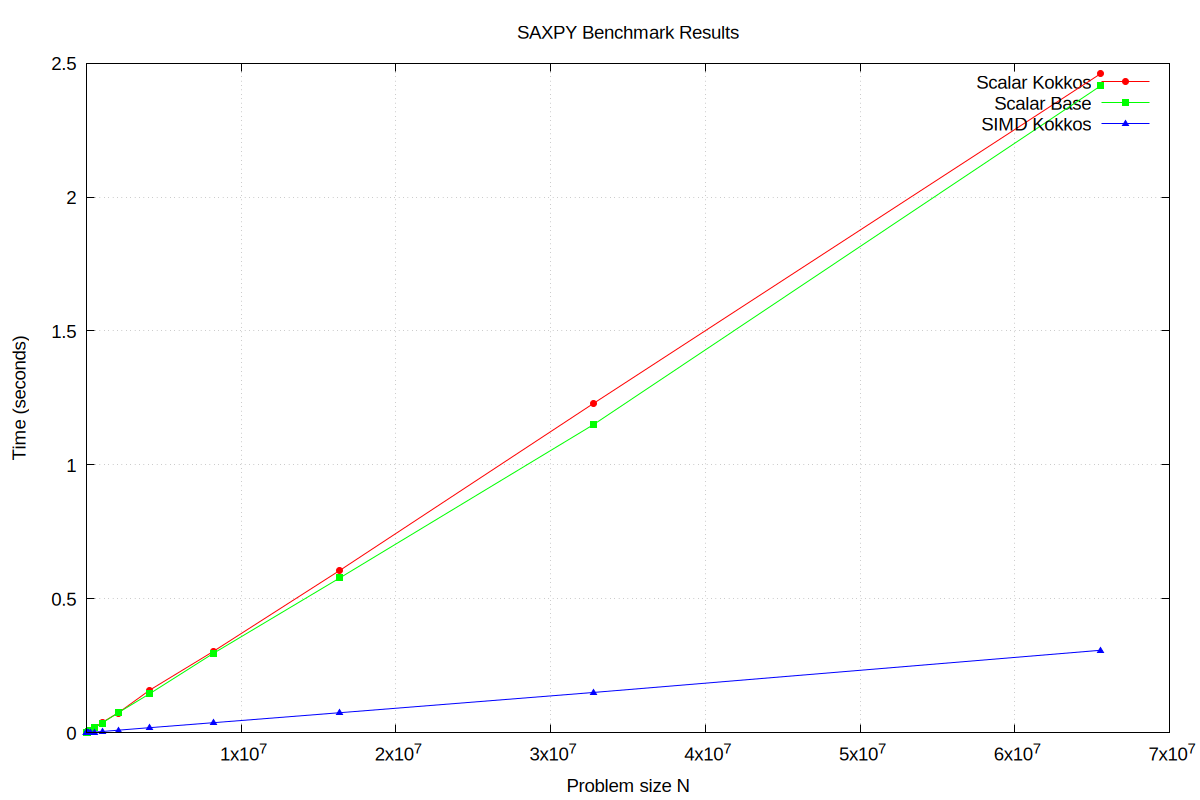
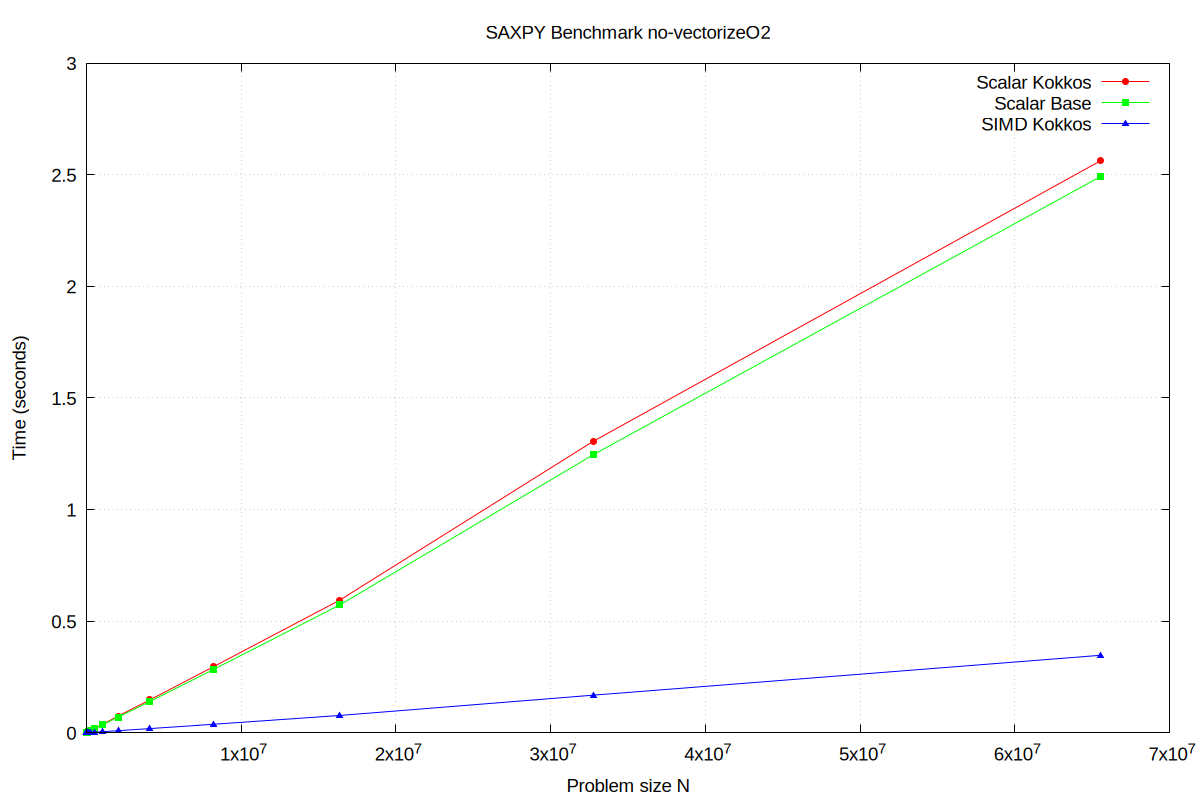
results included in readme

diff --git a/src/utils.cc b/src/utils.cc
@@ -1,23 +1,36 @@
 #include "utils.hh"
 #include "gnuplot.h"
 #include <string>
-void results_to_csv(const std::vector<Result> &results) {
-  // save results to csv file
-  // cols = |len|scalar_kokkos|-speedup->|scalar_base|-speedup->|//simd_kokkos|
 
+void results_to_csv(const std::vector<Result> &results) {
   std::string filename = std::string(BUILD_NAME) + "_results.csv";
   std::ofstream outFile(filename);
 
-  outFile << "N,scalar_kokkos,--->,scalar_base,--->,simd_kokkos\n";
+  outFile << "N,Vector Size (Bytes),Cache "
+             "Level,scalar_kokkos,--->,scalar_base,--->,simd_kokkos\n";
 
   for (const auto &res : results) {
+    size_t vector_size_bytes = res.n * sizeof(int);
+    std::string cache_level;
+
+    if (vector_size_bytes < 64 * 1024) { // L1: < 64 KB
+      cache_level = "L1";
+    } else if (vector_size_bytes < 2 * 1024 * 1024) { // L2: < 2 MB
+      cache_level = "L2";
+    } else if (vector_size_bytes < 12 * 1024 * 1024) { // L3: < 12 MB
+      cache_level = "L3";
+    } else { // RAM: >= 12 MB
+      cache_level = "RAM";
+    }
+
     double speedup_1 =
         std::round((res.times[0] / res.times[1]) * 1000.0) / 1000.0;
     double speedup_2 =
         std::round((res.times[1] / res.times[2]) * 1000.0) / 1000.0;
 
-    outFile << res.n << "," << res.times[0] << ",x" << speedup_1 << ","
-            << res.times[1] << ",x" << speedup_2 << "," << res.times[2] << "\n";
+    outFile << res.n << "," << vector_size_bytes << "," << cache_level << ","
+            << res.times[0] << ",x" << speedup_1 << "," << res.times[1] << ",x"
+            << speedup_2 << "," << res.times[2] << "\n";
   }
 
   outFile.close();
@@ -34,7 +47,7 @@ void plot_results(const std::vector<Result> &results) {
 
   gp.sendLine("set xlabel 'Problem size N'");
   gp.sendLine("set ylabel 'Time (seconds)'");
-  gp.sendLine("set title 'SAXPY Benchmark Results");
+  gp.sendLine("set title 'SAXPY Benchmark " + std::string(BUILD_NAME) + "'");
   gp.sendLine("set grid");
 
   gp.sendLine(

diff --git a/README.md b/README.md
@@ -6,17 +6,22 @@ This project benchmarks the **SAXPY** operation (`y = a * x + y`) using differen
 2. **SIMD Kokkos** – a Kokkos `parallel_for` leveraging SIMD vectorization.
 3. **Scalar Base** – a standard C++ loop without Kokkos.
 
-The goal is to compare **performance** across these methods and observe the effects of compiler optimization flags(all results are compiled with the `-fno-tree-vectorize` flag
-):
-- no optimization flag
-- `-O2` flag
-- `-O3` flag
+The goal is to compare **performance** across these methods and observe the effects of compiler optimization flags:
+
+- `-O2 -march=native` flag
+  - Kokkos SIMD vectorization improved
+  - Scalar Base + Scalar Kokkos vectorized by the compiler
 
 
-The benchmarks record execution time for varying problem sizes (50,000 -> 1,000,000), and the results are presented as:
+- `-fno-tree-vectorize` 
+  - Kokkos SIMD will still vectorize
+  - Scalar Base + Scalar Kokkos no vectorized by the compiler
+
+The benchmarks record execution time for varying problem sizes N = (1000 -> 65,536,000) and **repeated** `REPEAT_COUNT=8` times and averaged (no warm up).
+The results are presented as:
 
 * **Plots** – showing time vs. problem size for each implementation using `gnuplot`.
-* **Tables** – including speedups
+* **Tables** – including speedups and cache levels
 
 
 By evaluating these configurations across increasing problem sizes, this project highlights the trade-offs between abstraction overhead, explicit SIMD
@@ -26,24 +31,34 @@ vectorization, and compiler-driven optimizations in a simple but representative 
 
 ## System Info
 
-[https://www.techpowerup.com/cpu-specs/core-ultra-5-125u.c3557]
+[https://www.intel.com/content/www/us/en/products/sku/237330/intel-core-ultra-5-processor-125u-12m-cache-up-to-4-30-ghz/specifications.html]
 
-| Vendor ID: |                   GenuineIntel |
-| ---------- | ------------------------------ |
-|Model name  |                Intel(R) Core(TM) Ultra 5 125U |
-|CPU family|              6 |
-|Model|                   170 |
-|Thread(s) per core|      2 |
-|Core(s) per socket|      12 |
-|Socket(s)|               1 |
-|Stepping|                4 |
-|CPU(s) scaling MHz|      54% |
-|CPU max MHz|             4300.0000 |
-|CPU min MHz|             400.0000 |
-|BogoMIPS|                5376.00
-|Theoretical Memory Bandwidth| 89.6 GB/s|
-
-
+| **Specification**                     | **Value**                          |
+|--------------------------------------|------------------------------------|
+| **Product Collection**               | Intel® Core™ Ultra processors (Series 1) |
+| **Code Name**                        | Products formerly Meteor Lake      |
+| **Vertical Segment**                 | Mobile                             |
+| **Processor Number**                 | 125U                               |
+| **Overall Peak TOPS (Int8)**          | 21                                 |
+| **Total Cores**                      | 12                                 |
+| **# of Performance-cores**           | 2                                  |
+| **# of Efficient-cores**             | 8                                  |
+| **# of Low Power Efficient-cores**   | 2                                  |
+| **Total Threads**                    | 14                                 |
+| **Max Turbo Frequency**              | 4.3 GHz                            |
+| **Performance-core Max Turbo Frequency** | 4.3 GHz                        |
+| **Efficient-core Max Turbo Frequency**  | 3.6 GHz                        |
+| **Low Power Efficient-core Max Turbo Frequency** | 2.1 GHz      |
+| **Performance-core Base Frequency**   | 1.3 GHz                            |
+| **Efficient-core Base Frequency**    | 800 MHz                            |
+| **Low Power Efficient-core Base Frequency** | 700 MHz               |
+| **Cache**                            | 12 MB Intel® Smart Cache            |
+| **Processor Base Power**             | 15 W                               |
+| **Maximum Turbo Power**              | 57 W                               |
+| **Minimum Assured Power**            | 12 W                               |
+| **Intel® Deep Learning Boost (Intel® DL Boost) on CPU** | Yes       |
+| **AI Software Frameworks Supported by CPU** | OpenVINO™, WindowsML, ONNX RT |
+| **CPU Lithography**                  | Intel 4                            |
 
 
 ### cpuinfo flags
@@ -63,7 +78,8 @@ vectorization, and compiler-driven optimizations in a simple but representative 
 
 
 
-### CPU Base Frequency and Thread Siblings
+### Detail CPU Base Frequency and Thread Siblings
+
 ```bash
 for cpu_path in /sys/devices/system/cpu/cpu[0-9]*; do
   cpu_num=$(basename "$cpu_path" | sed 's/cpu//');
@@ -73,15 +89,70 @@ for cpu_path in /sys/devices/system/cpu/cpu[0-9]*; do
 done
 
 ```
-- P-cores: 1.3 GHz, with Hyper-Threading.
-- E-cores: 0.8 GHz, no Hyper-Threading.
-- LP E-cores: 0.7 GHz, no Hyper-Threading.
 
 ## Prediction
 
+
 > we will use the namespace `namespace KE = Kokkos::Experimental;` 
 
-With this specific cpu, the value of `KE::simd_size` given we have initialized with `KE::simd<int` is **8**.
-We can expect that there will be a speed up of ~x8.
-This value is expected to drop when building with the `-O2` flag and further with the `-O3` flag.
+With this specific CPU, the value of `KE::simd_size` given we have initialized with `KE::simd<int>` is **8**.
+We can expect that there will be a speed up of ~x8 for the **Kokkos SIMD** kernel with **non-vectorized** flags.
+This value is expected to drop when building with the `-O2 -march=native` flags,
+
+
+
+## Results
+
+###  Non-vectorized `-fno-tree-vectorize`
+
+![MISSING IMAGE](./results/no-vectorizeO2_plot.png)  
+
+| N        | Vector Size (Bytes) | Cache Level | scalar_kokkos | --->   | scalar_base | --->   | simd_kokkos |
+| -------- | ------------------- | ----------- | ------------- | ------ | ----------- | ------ | ----------- |
+| 1000     | 4000                | L1          | 3.49955e-05   | x1.03  | 3.39736e-05 | x6.235 | 5.44875e-06 |
+| 2000     | 8000                | L1          | 6.56589e-05   | x1.059 | 6.20241e-05 | x6.409 | 9.67838e-06 |
+| 4000     | 16000               | L1          | 0.000133143   | x0.801 | 0.000166153 | x8.652 | 1.9203e-05  |
+| 8000     | 32000               | L1          | 0.000273967   | x1.07  | 0.000255983 | x6.513 | 3.93034e-05 |
+| 16000    | 64000               | L1          | 0.000553742   | x1.055 | 0.000524758 | x7.109 | 7.38133e-05 |
+| 32000    | 128000              | L2          | 0.00110896    | x1.047 | 0.00105956  | x7.147 | 0.000148247 |
+| 64000    | 256000              | L2          | 0.00221701    | x0.98  | 0.00226125  | x7.689 | 0.000294102 |
+| 128000   | 512000              | L2          | 0.0045285     | x1.048 | 0.00431963  | x7.103 | 0.000608149 |
+| 256000   | 1024000             | L2          | 0.00931726    | x1.015 | 0.00917532  | x7.779 | 0.00117949  |
+| 512000   | 2048000             | L2          | 0.0183827     | x1.048 | 0.0175331   | x7.428 | 0.00236035  |
+| 1024000  | 4096000             | L3          | 0.0365822     | x1.046 | 0.0349642   | x7.542 | 0.00463613  |
+| 2048000  | 8192000             | L3          | 0.0747299     | x1.066 | 0.0700705   | x7.499 | 0.00934396  |
+| 4096000  | 16384000            | RAM         | 0.147121      | x1.052 | 0.139825    | x7.465 | 0.0187317   |
+| 8192000  | 32768000            | RAM         | 0.295174      | x1.044 | 0.282757    | x7.433 | 0.0380384   |
+| 16384000 | 65536000            | RAM         | 0.594494      | x1.038 | 0.572843    | x7.381 | 0.0776088   |
+| 32768000 | 131072000           | RAM         | 1.30602       | x1.048 | 1.24598     | x7.394 | 0.168517    |
+| 65536000 | 262144000           | RAM         | 2.56211       | x1.028 | 2.49136     | x7.178 | 0.347097    |
+
+
+### Vectorized `-O2 -march=native`
+
+
+![MISSING IMAGE](./results/vectorizeO2_plot.png)  
+
+| N        | Vector Size (Bytes) | Cache Level | scalar_kokkos | --->   | scalar_base | --->   | simd_kokkos |
+| -------- | ------------------- | ----------- | ------------- | ------ | ----------- | ------ | ----------- |
+| 1000     | 4000                | L1          | 7.955e-07     | x1.309 | 6.07875e-07 | x1.861 | 3.26625e-07 |
+| 2000     | 8000                | L1          | 1.14525e-06   | x0.998 | 1.14712e-06 | x3.047 | 3.765e-07   |
+| 4000     | 16000               | L1          | 2.14e-06      | x0.913 | 2.34287e-06 | x3.351 | 6.99125e-07 |
+| 8000     | 32000               | L1          | 4.0655e-06    | x0.851 | 4.77762e-06 | x3.692 | 1.294e-06   |
+| 16000    | 64000               | L1          | 7.92763e-06   | x0.81  | 9.79e-06    | x4.296 | 2.27875e-06 |
+| 32000    | 128000              | L2          | 1.62162e-05   | x0.842 | 1.92669e-05 | x4.442 | 4.337e-06   |
+| 64000    | 256000              | L2          | 3.10964e-05   | x0.812 | 3.8315e-05  | x4.884 | 7.84438e-06 |
+| 128000   | 512000              | L2          | 6.21021e-05   | x1.554 | 3.99548e-05 | x2.453 | 1.62906e-05 |
+| 256000   | 1024000             | L2          | 9.72465e-05   | x1.127 | 8.63142e-05 | x2.609 | 3.30864e-05 |
+| 512000   | 2048000             | L2          | 0.00020968    | x1.132 | 0.000185168 | x2.069 | 8.949e-05   |
+| 1024000  | 4096000             | L3          | 0.000412608   | x1.218 | 0.000338689 | x1.891 | 0.000179111 |
+| 2048000  | 8192000             | L3          | 0.000963349   | x1.038 | 0.000927944 | x1.396 | 0.000664695 |
+| 4096000  | 16384000            | RAM         | 0.00199646    | x1.172 | 0.00170295  | x1.07  | 0.00159105  |
+| 8192000  | 32768000            | RAM         | 0.00411123    | x1.092 | 0.0037655   | x1.177 | 0.00319833  |
+| 16384000 | 65536000            | RAM         | 0.00839339    | x1.133 | 0.00740766  | x1.13  | 0.00655788  |
+| 32768000 | 131072000           | RAM         | 0.0167206     | x1.109 | 0.0150775   | x1.15  | 0.0131152   |
+| 65536000 | 262144000           | RAM         | 0.033178      | x1.127 | 0.0294324   | x1.109 | 0.0265466   |
+
+
+
 
